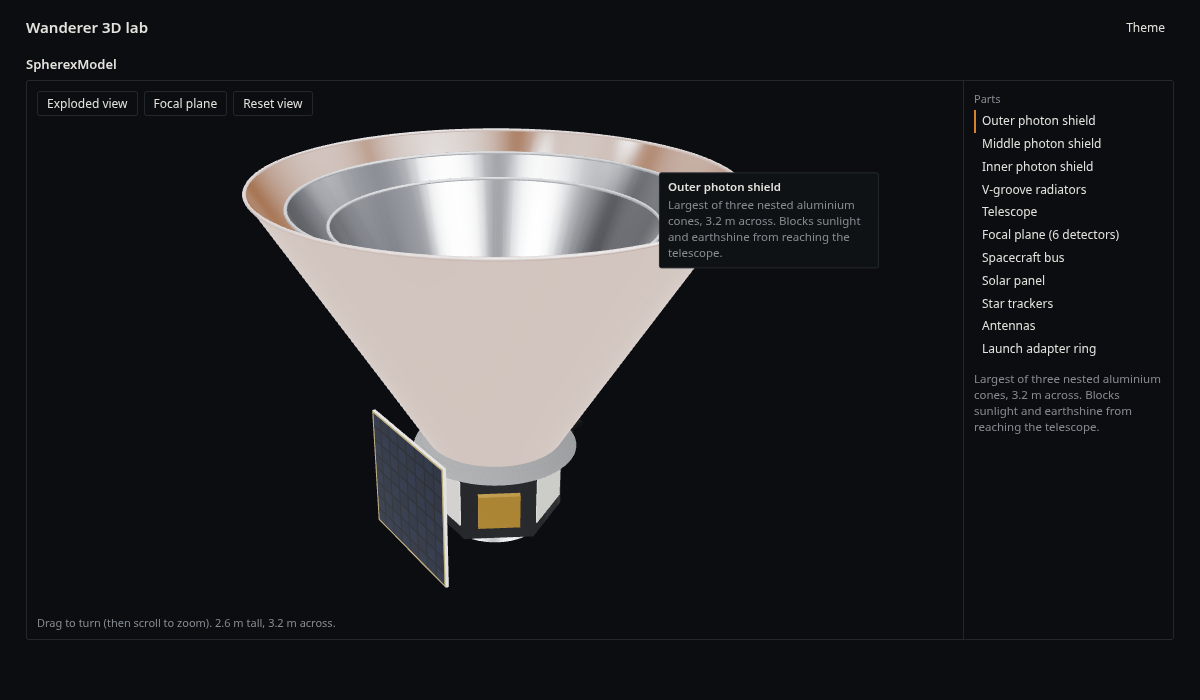
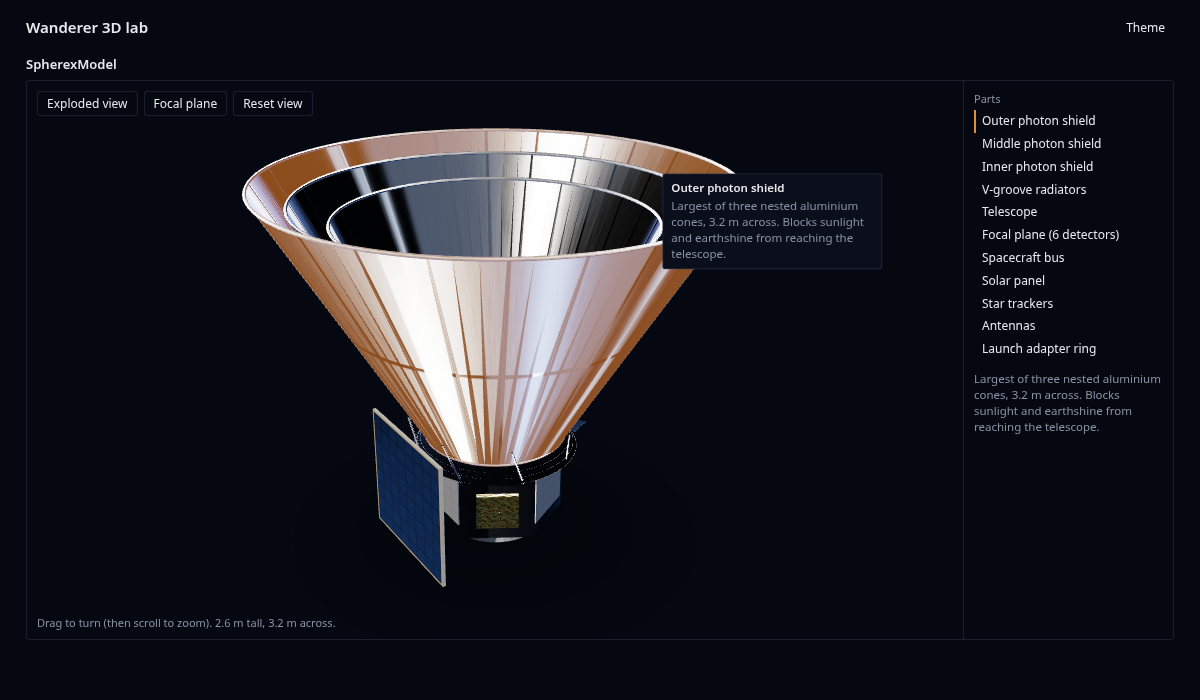
3D: lighting, star field, comet tails and faster rendering

Changed region(s): [[0.185, 0.18, 0.74, 0.84]]

diff --git a/web/src/three/SpherexNow.tsx b/web/src/three/SpherexNow.tsx
@@ -89,7 +89,7 @@ function sample(sat: SatRec, ms: number): State {
   return {
     ok: true,
     lat: (geo.latitude * 180) / Math.PI,
-    lon: ((((geo.longitude * 180) / Math.PI + 540) % 360) - 180),
+    lon: (((geo.longitude * 180) / Math.PI + 540) % 360) - 180,
     alt: geo.height,
     speed: Math.hypot(v.x, v.y, v.z),
     ms,
@@ -118,7 +118,13 @@ export default function SpherexNow({
   const [rate, setRate] = useState(1);
   const [follow, setFollow] = useState(false);
   // the readout is written straight into the DOM 4 times a second: no React renders while it runs
-  const out = useRef<Record<'utc' | 'lat' | 'lon' | 'alt' | 'speed', HTMLElement | null>>({ utc: null, lat: null, lon: null, alt: null, speed: null });
+  const out = useRef<Record<'utc' | 'lat' | 'lon' | 'alt' | 'speed', HTMLElement | null>>({
+    utc: null,
+    lat: null,
+    lon: null,
+    alt: null,
+    speed: null,
+  });
   // the 2D fallback map only needs a fresh position every few seconds
   const [slow, setSlow] = useState<State | null>(null);
 
@@ -247,10 +253,9 @@ export default function SpherexNow({
             <dd ref={bind('speed')}>-</dd>
           </dl>
           <div className="w3-readout-foot">
-            Polar orbit, NORAD 63182. Elements:{' '}
-            {tle ? `${tle.source}, epoch ${tle.epoch.slice(0, 16).replace('T', ' ')} UTC` : 'loading'}
-            {tleNote ? `, ${tleNote}` : ''}. Spacecraft drawn about {ENLARGEMENT.toLocaleString('en-US')} times true size so it can be
-            seen; Earth, orbit and Sun direction are to scale.
+            Polar orbit, NORAD 63182. Elements: {tle ? `${tle.source}, epoch ${tle.epoch.slice(0, 16).replace('T', ' ')} UTC` : 'loading'}
+            {tleNote ? `, ${tleNote}` : ''}. Spacecraft drawn about {ENLARGEMENT.toLocaleString('en-US')} times true size so it can be seen;
+            Earth, orbit and Sun direction are to scale.
           </div>
         </div>
       ) : null}
@@ -262,7 +267,17 @@ export default function SpherexNow({
 // 3D scene
 // ---------------------------------------------------------------------------
 
-function NowCanvas({ sat, clock, follow, interactive }: { sat: SatRec; clock: MutableRefObject<Clock>; follow: boolean; interactive: boolean }) {
+function NowCanvas({
+  sat,
+  clock,
+  follow,
+  interactive,
+}: {
+  sat: SatRec;
+  clock: MutableRefObject<Clock>;
+  follow: boolean;
+  interactive: boolean;
+}) {
   const box = useRef<HTMLDivElement>(null);
   const inView = useInView(box);
   const [low, setLow] = useState(false);
@@ -355,7 +370,11 @@ void main() {
 
 /** Low-res textures first (fast suspense), the 2k ones swapped in when loaded. */
 function useEarthTextures() {
-  const [dayLo, nightLo, ocean] = useTexture(['/textures/earth-day-512.webp', '/textures/earth-night-512.webp', '/textures/earth-ocean-1k.webp']);
+  const [dayLo, nightLo, ocean] = useTexture([
+    '/textures/earth-day-512.webp',
+    '/textures/earth-night-512.webp',
+    '/textures/earth-ocean-1k.webp',
+  ]);
   const [hi, setHi] = useState<[THREE.Texture, THREE.Texture] | null>(null);
   const gl = useThree((s) => s.gl);
   useEffect(() => {
@@ -643,7 +662,12 @@ function GroundTrackStill({ sat, st }: { sat: SatRec | null; st: State | null })
   }, [sat, st]);
   return (
     <figure className="w3-still w3-map">
-      <svg viewBox="0 0 360 180" preserveAspectRatio="xMidYMid meet" role="img" aria-label="Map of Earth with the current ground track of SPHEREx">
+      <svg
+        viewBox="0 0 360 180"
+        preserveAspectRatio="xMidYMid meet"
+        role="img"
+        aria-label="Map of Earth with the current ground track of SPHEREx"
+      >
         <image href="/textures/earth-day-2k.webp" x="0" y="0" width="360" height="180" preserveAspectRatio="none" />
         {track.map((pts, i) => (
           <polyline key={i} points={pts} fill="none" stroke={pal.accent} strokeWidth={0.6} />

diff --git a/web/src/three/HelioTrack.tsx b/web/src/three/HelioTrack.tsx
@@ -526,7 +526,10 @@ function Comet({ data, jdRef, R, accent }: { data: OrbitData; jdRef: MutableRefO
     },
     [geo, mat],
   );
-  const tmp = useMemo(() => ({ n: new THREE.Vector3(), s: new THREE.Vector3(), v: new THREE.Vector3(), u: new THREE.Vector3(), w: new THREE.Vector3() }), []);
+  const tmp = useMemo(
+    () => ({ n: new THREE.Vector3(), s: new THREE.Vector3(), v: new THREE.Vector3(), u: new THREE.Vector3(), w: new THREE.Vector3() }),
+    [],
+  );
   const last = useRef(NaN);
   useFrame(() => {
     const jd = jdRef.current;
@@ -630,7 +633,11 @@ function HelioScene({ data, jdRef, marks, view, speeds }: SceneProps) {
 
   // SPHEREx frame times: one instanced mesh
   const markMesh = useMemo(() => {
-    const m = new THREE.InstancedMesh(new THREE.SphereGeometry(1, 10, 8), new THREE.MeshBasicMaterial({ color: pal.det[2] }), Math.max(1, marks.length));
+    const m = new THREE.InstancedMesh(
+      new THREE.SphereGeometry(1, 10, 8),
+      new THREE.MeshBasicMaterial({ color: pal.det[2] }),
+      Math.max(1, marks.length),
+    );
     m.count = marks.length;
     return m;
   }, [marks.length, pal.det]);
@@ -683,7 +690,11 @@ function HelioScene({ data, jdRef, marks, view, speeds }: SceneProps) {
   useEffect(() => {
     const d = R * 2.6;
     goal.current =
-      view === 'top' ? new THREE.Vector3(0, d, 0.0001) : view === 'side' ? new THREE.Vector3(0, 0.0001, d) : new THREE.Vector3(0, d * 0.55, d * 0.85);
+      view === 'top'
+        ? new THREE.Vector3(0, d, 0.0001)
+        : view === 'side'
+          ? new THREE.Vector3(0, 0.0001, d)
+          : new THREE.Vector3(0, d * 0.55, d * 0.85);
   }, [view, R]);
   useFrame((_, dt) => {
     if (!goal.current) return;
@@ -694,7 +705,15 @@ function HelioScene({ data, jdRef, marks, view, speeds }: SceneProps) {
   });
 
   const corona = useMemo(
-    () => new THREE.SpriteMaterial({ map: dotTexture(), color: new THREE.Color(4, 3.4, 2.4), blending: THREE.AdditiveBlending, depthWrite: false, toneMapped: false, fog: false }),
+    () =>
+      new THREE.SpriteMaterial({
+        map: dotTexture(),
+        color: new THREE.Color(4, 3.4, 2.4),
+        blending: THREE.AdditiveBlending,
+        depthWrite: false,
+        toneMapped: false,
+        fog: false,
+      }),
     [],
   );
   useEffect(() => () => corona.dispose(), [corona]);

diff --git a/web/src/three/SpherexSpacecraft.tsx b/web/src/three/SpherexSpacecraft.tsx
@@ -320,8 +320,7 @@ function Part({ id, info, progress, hovered, interactive, ghost, explodedTarget,
   }, [ghost, explodedTarget, mats, invalidate]);
 
   useEffect(
-    () => () =>
-      Object.values(mats).forEach((m) => m.dispose()), // textures are shared, kept for the page's lifetime
+    () => () => Object.values(mats).forEach((m) => m.dispose()), // textures are shared, kept for the page's lifetime
     [mats],
   );
 
@@ -522,11 +521,17 @@ export function SpherexSpacecraft({
             {Array.from({ length: 12 }, (_, k) => {
               const a = (k / 12) * Math.PI * 2;
               const y = k % 2 ? 1.55 : 1.15;
-              const fr = (yy: number, sh: { rb: number; rt: number; y0: number; y1: number }) => sh.rb + ((sh.rt - sh.rb) * (yy - sh.y0)) / (sh.y1 - sh.y0);
+              const fr = (yy: number, sh: { rb: number; rt: number; y0: number; y1: number }) =>
+                sh.rb + ((sh.rt - sh.rb) * (yy - sh.y0)) / (sh.y1 - sh.y0);
               const r0 = fr(y, SHIELDS.inner);
               const r1 = fr(y, SHIELDS.outer);
               return (
-                <mesh key={'g' + k} material={m.alu} position={[Math.cos(a) * (r0 + r1) / 2, y, Math.sin(a) * (r0 + r1) / 2]} rotation={[0, -a, Math.PI / 2]}>
+                <mesh
+                  key={'g' + k}
+                  material={m.alu}
+                  position={[(Math.cos(a) * (r0 + r1)) / 2, y, (Math.sin(a) * (r0 + r1)) / 2]}
+                  rotation={[0, -a, Math.PI / 2]}
+                >
                   <cylinderGeometry args={[0.005, 0.005, r1 - r0, 5]} />
                 </mesh>
               );
@@ -563,7 +568,12 @@ export function SpherexSpacecraft({
             {[0, 1, 2].map((k) => {
               const a = (k / 3) * Math.PI * 2;
               return (
-                <mesh key={k} material={m.black} position={[-0.06 + Math.cos(a) * 0.078, 1.205, Math.sin(a) * 0.078]} rotation={[0, -a, Math.PI / 2]}>
+                <mesh
+                  key={k}
+                  material={m.black}
+                  position={[-0.06 + Math.cos(a) * 0.078, 1.205, Math.sin(a) * 0.078]}
+                  rotation={[0, -a, Math.PI / 2]}
+                >
                   <boxGeometry args={[0.004, 0.088, 0.004]} />
                 </mesh>
               );

diff --git a/web/src/three/SpherexModel.tsx b/web/src/three/SpherexModel.tsx
@@ -99,7 +99,17 @@ function ModelView({ showPartList = true, initialExploded = false, initialFocalP
             {/* cool rim light from behind, earthshine from below */}
             <directionalLight position={[3, 1.5, -5]} intensity={1.4} color="#9db8ff" />
             <directionalLight position={[1, -5, 1]} intensity={0.35} color="#7fa3d9" />
-            <ContactShadows key={exploded ? 'x' : 'a'} position={[0, -1.36, 0]} scale={6} blur={2.6} far={3} opacity={0.45} frames={90} resolution={256} color="#000000" />
+            <ContactShadows
+              key={exploded ? 'x' : 'a'}
+              position={[0, -1.36, 0]}
+              scale={6}
+              blur={2.6}
+              far={3}
+              opacity={0.45}
+              frames={90}
+              resolution={256}
+              color="#000000"
+            />
             <Spin on={spin} />
             <Fit exploded={exploded}>
               <SpherexSpacecraft

diff --git a/web/public/textures/CREDITS.md b/web/public/textures/CREDITS.md
@@ -1,14 +1,20 @@
 # Texture and image credits
 
-All images here are in the public domain (NASA). Resized to 2048 x 1024 for the web.
+All images here are in the public domain (NASA). Resized for the web (WebP; 2048 x 1024 plus 512 x 256 placeholders), except the star catalogue.
 
-- `earth-day-2k.jpg`: NASA Earth Observatory / Visible Earth, Blue Marble Next Generation with topography and
+- `earth-day-2k.webp`, `earth-day-512.webp`: NASA Earth Observatory / Visible Earth, Blue Marble Next Generation with topography and
   bathymetry, December 2004 (Reto Stockli, NASA Earth Observatory).
   Source: https://science.nasa.gov/earth/earth-observatory/blue-marble-next-generation/base-topography-bathymetry
   (file `world.topo.bathy.200412.3x5400x2700.jpg`).
-- `earth-night-2k.jpg`: NASA Earth Observatory, Black Marble 2016 (Joshua Stevens, using Suomi NPP VIIRS data
+- `earth-night-2k.webp`, `earth-night-512.webp`: NASA Earth Observatory, Black Marble 2016 (Joshua Stevens, using Suomi NPP VIIRS data
   from Miguel Roman, NASA GSFC). Source: https://science.nasa.gov/earth/earth-observatory/earth-at-night/maps/
   (file `BlackMarble_2016_01deg.jpg`).
+- `earth-ocean-1k.webp`: water mask derived by Wanderer from the Blue Marble image above (blue, dark pixels), used
+  only to place the sun glint on the oceans.
+- `stars-hip.bin`: 25,493 stars brighter than V = 7.5 from the Hipparcos Main Catalogue (ESA 1997, ESA SP-1200),
+  VizieR catalogue I/239 (CDS Strasbourg, via the CfA mirror). Positions (ICRS), V magnitude and B-V colour packed
+  into 6 bytes per star. (The NASA SVS Deep Star Maps were not reachable from the build machine, so the sky is drawn
+  from the catalogue instead.)
 - `still-spherex.jpg`: rendered by Wanderer from its own code model of SPHEREx, built from NASA/JPL-Caltech images
   PIA25784, PIA26531, PIA26537 and PIA26543 (photojournal.jpl.nasa.gov). Not an official NASA image.
 
